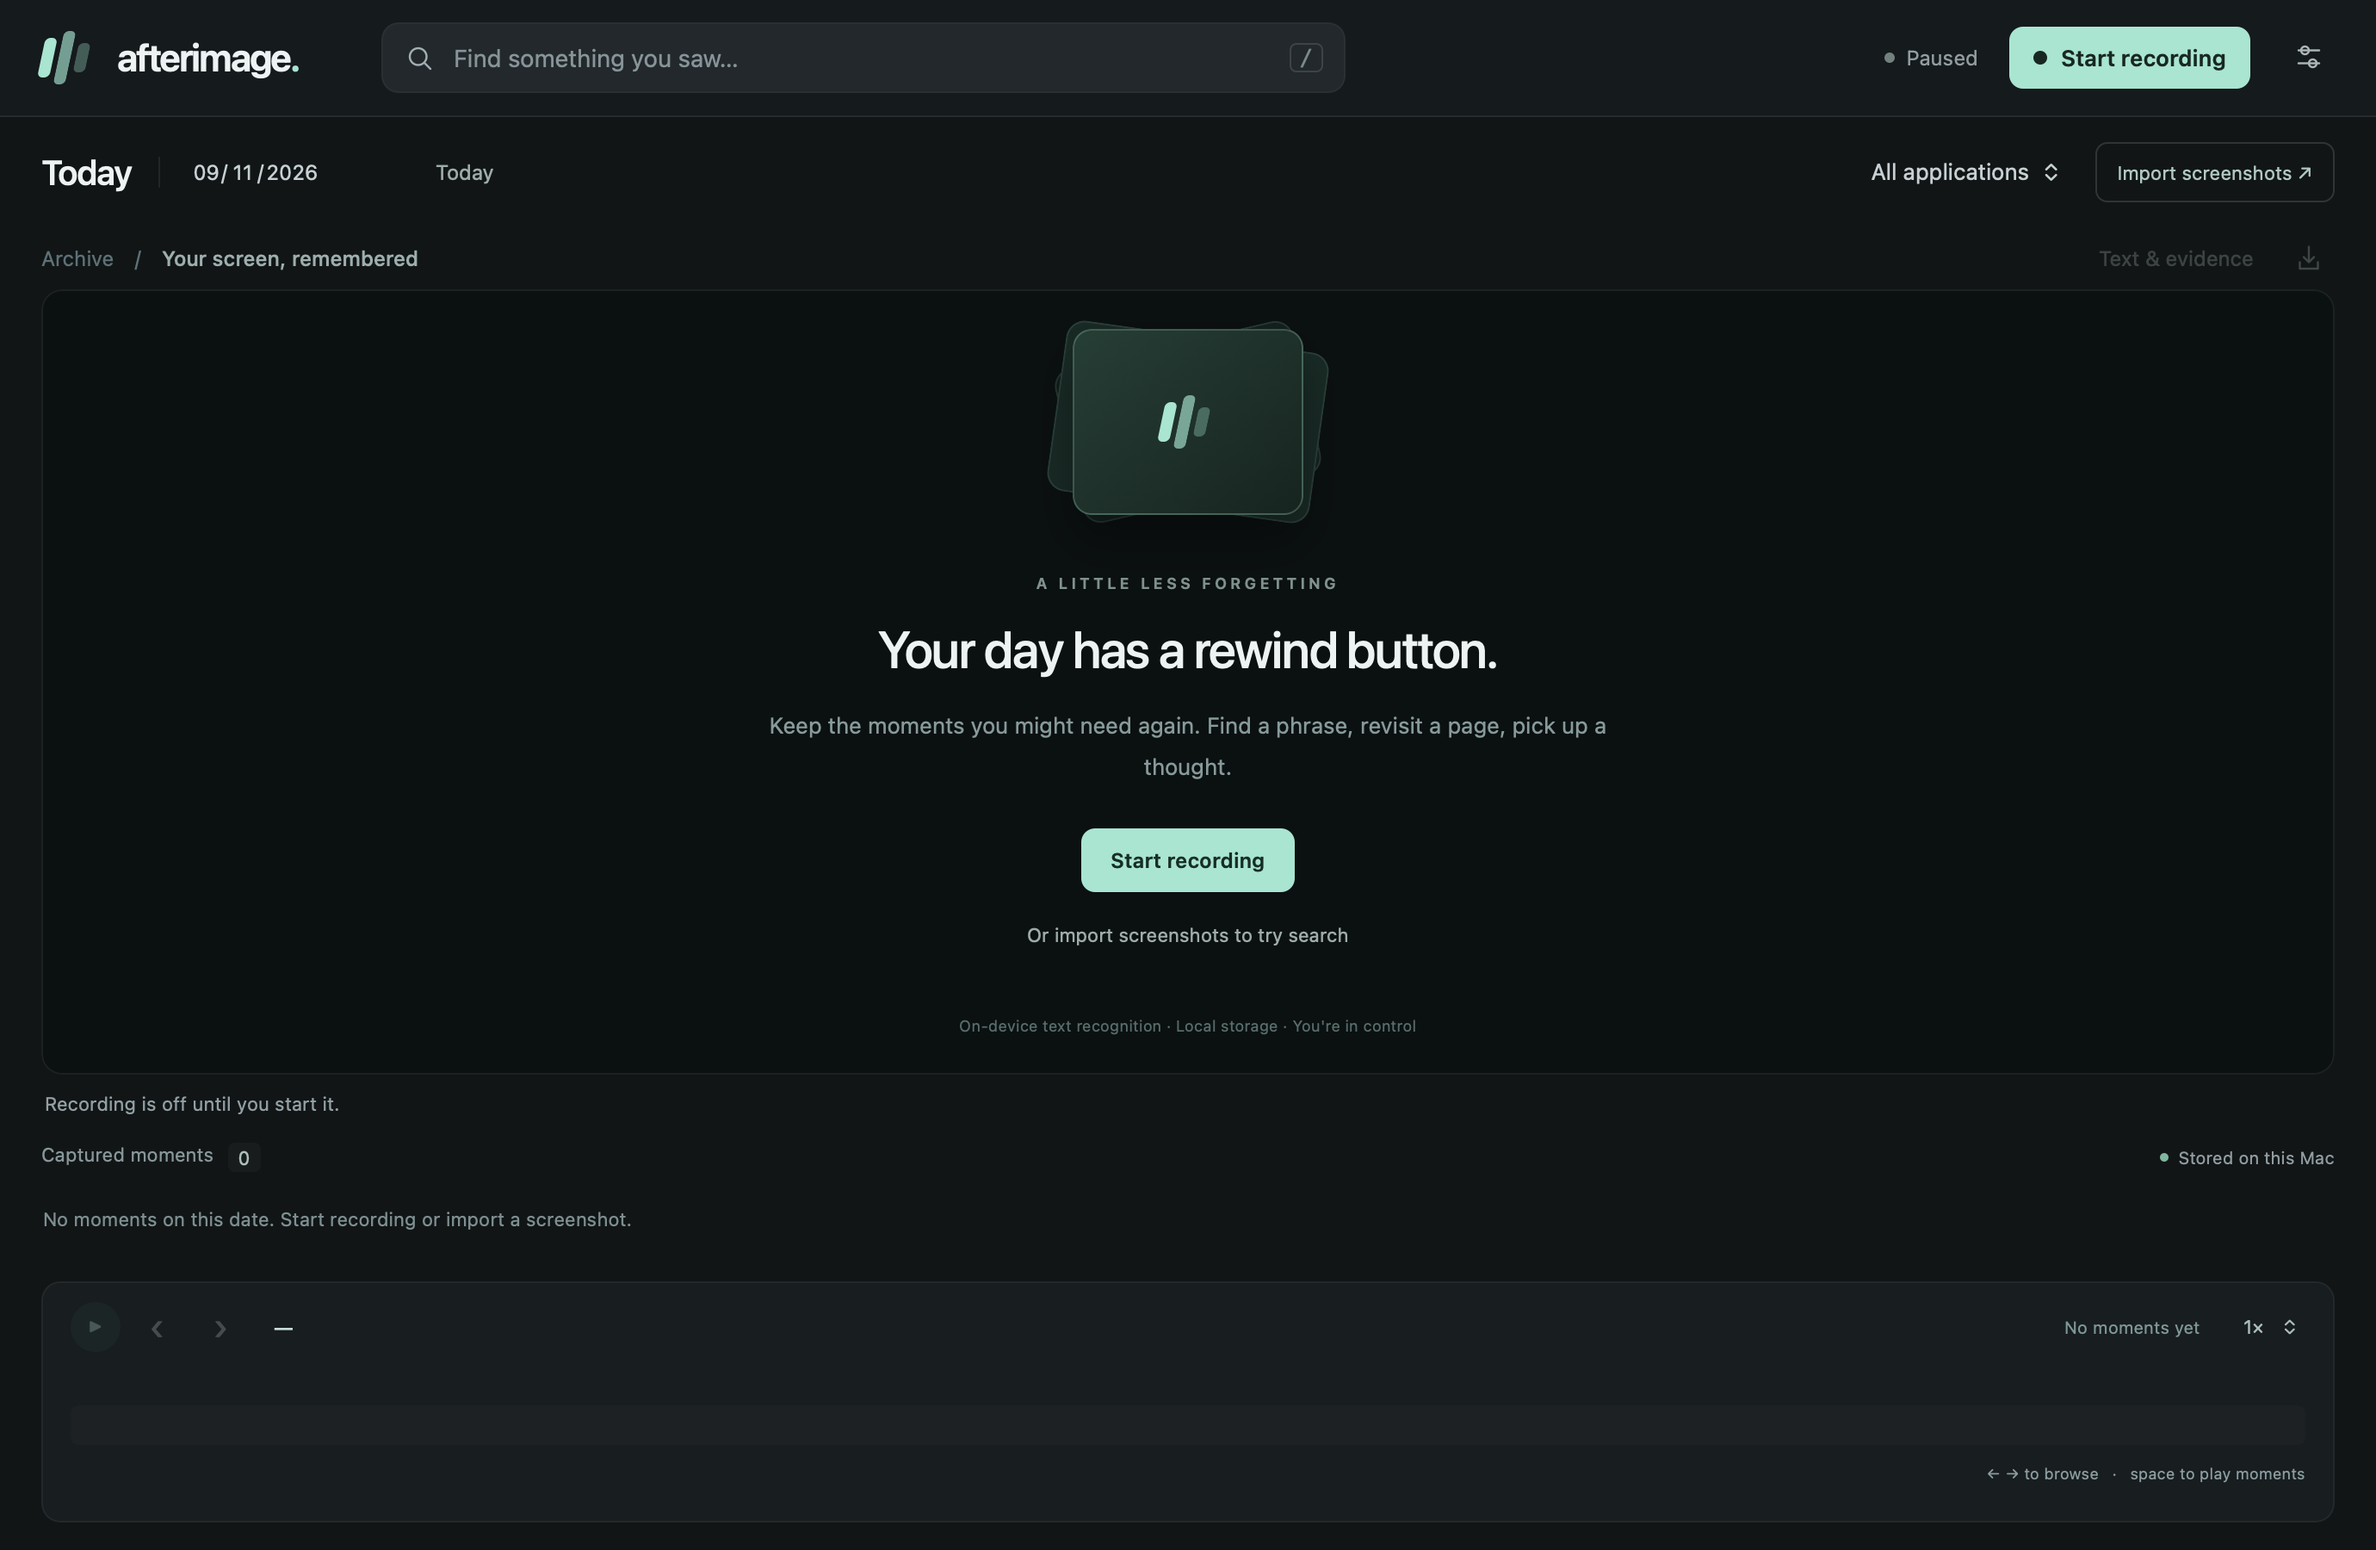
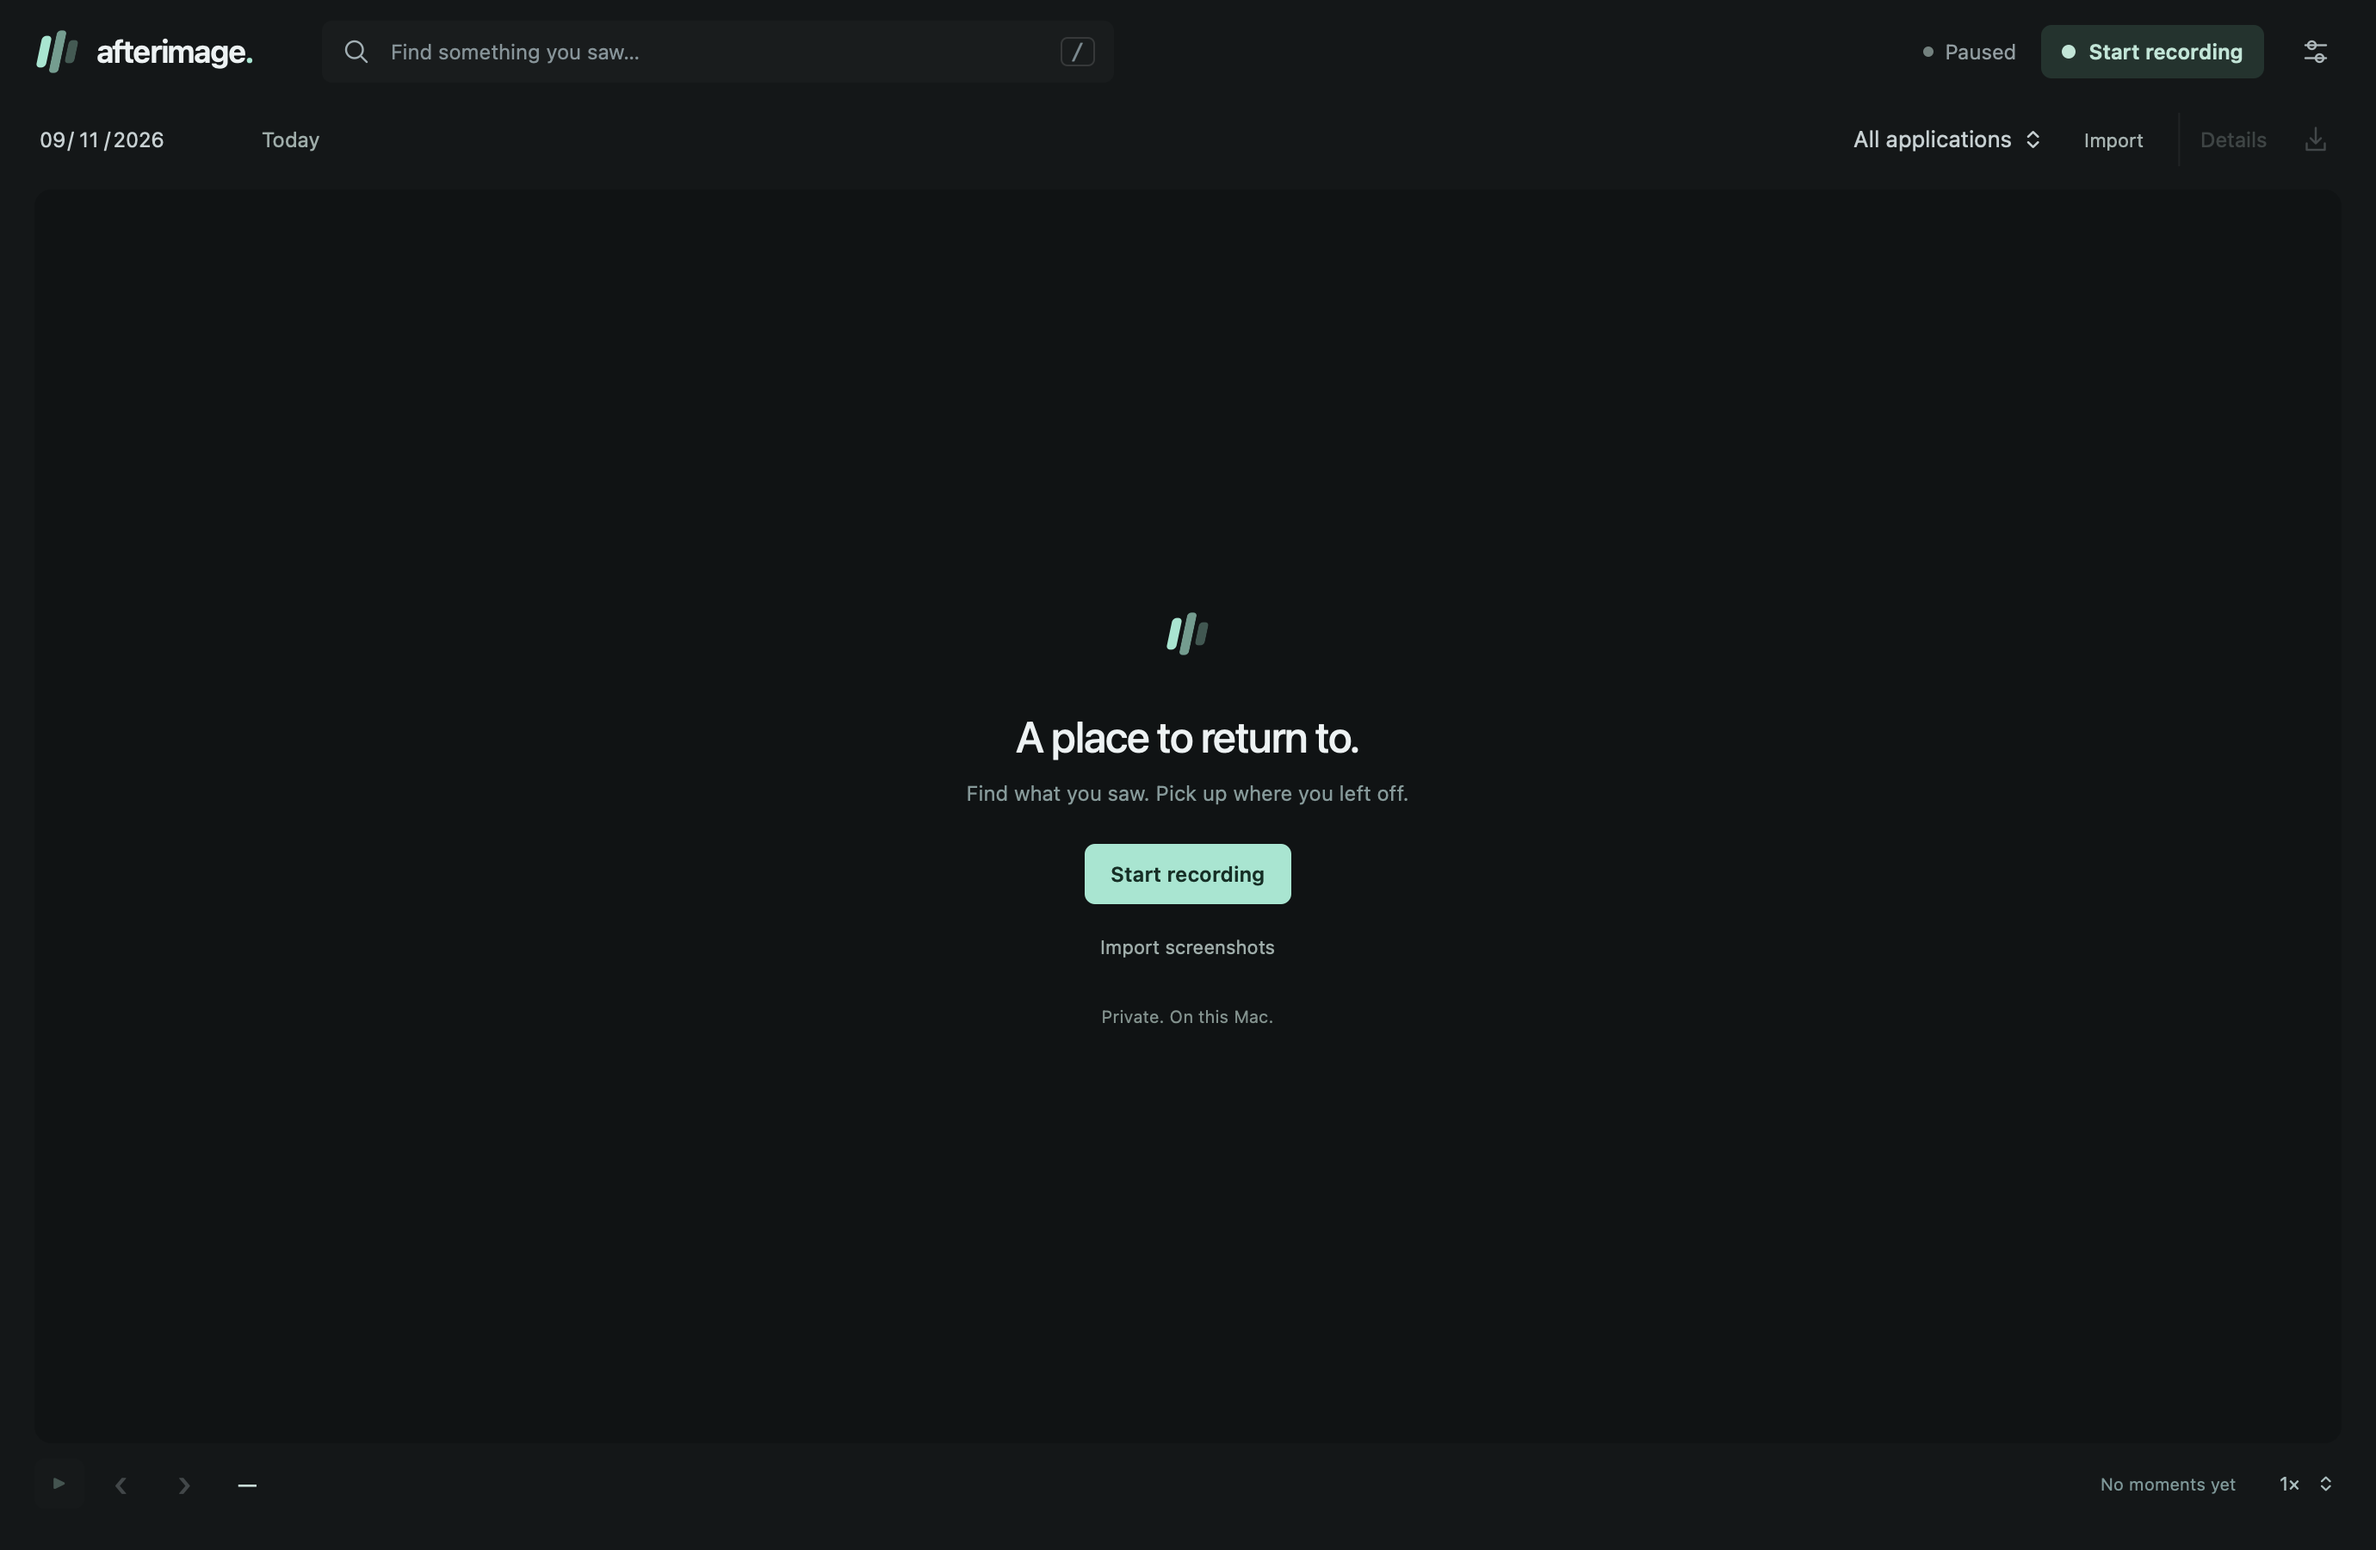
Refine Litt chrome, spacing and typography

diff --git a/web/style.css b/web/style.css
@@ -1342,3 +1342,255 @@ input:focus-visible {
     line-height: 1.5;
   }
 }
+
+/* Quiet chrome: 6px controls, 10px canvas, 12px floating surfaces. */
+:root {
+  --bg: #141718;
+  --panel: #1b1f20;
+  --line: #ffffff0d;
+}
+.topbar {
+  height: 60px;
+  border: 0;
+  background: var(--bg);
+  padding: 0 20px;
+  gap: 24px;
+}
+.brand {
+  font-size: 18px;
+  gap: 9px;
+  letter-spacing: -0.6px;
+}
+.brand-mark {
+  transform: skew(-12deg) scale(0.8);
+  width: 27px;
+}
+.search-wrap {
+  padding: 8px 10px;
+  border: 1px solid transparent;
+  border-radius: 6px;
+  background: #ffffff05;
+  max-width: 460px;
+}
+.search-wrap input {
+  font-size: 12px;
+}
+.record {
+  border-radius: 6px;
+  padding: 8px 12px;
+  font-size: 12px;
+  background: #24332e;
+  color: #c2e5d7;
+}
+.header-actions {
+  gap: 14px;
+}
+.workspace {
+  height: calc(100vh - 60px);
+}
+main {
+  padding: 0 20px 12px;
+}
+.archive-toolbar {
+  min-height: 42px;
+  margin-bottom: 8px;
+}
+.date-control input {
+  width: 120px;
+}
+.day-heading {
+  gap: 12px;
+}
+.archive-filters {
+  gap: 14px;
+}
+.archive-filters .secondary {
+  border: 0;
+  padding: 6px;
+  color: #a7b3b1;
+}
+.viewer-actions {
+  gap: 12px;
+  padding-left: 12px;
+  border-left: 1px solid var(--line);
+}
+.stage {
+  border-radius: 10px;
+  border: 0;
+  background: #101314;
+}
+.frame-caption {
+  padding: 9px 0;
+  font-size: 10px;
+}
+.frame-badge {
+  border: 0;
+  border-radius: 6px;
+  padding: 7px 9px;
+  top: 12px;
+  left: 12px;
+}
+.empty-art {
+  width: 32px;
+  height: 36px;
+  margin-bottom: 16px;
+}
+.empty-art > div {
+  display: none;
+}
+.empty-art > div:last-child {
+  display: flex;
+  position: static;
+  border: 0;
+  border-radius: 0;
+  background: none;
+  box-shadow: none;
+}
+.empty h2 {
+  font-size: 25px;
+  letter-spacing: -0.7px;
+  margin: 8px 0;
+}
+.empty p {
+  font-size: 12px;
+  line-height: 1.6;
+  margin-bottom: 20px;
+}
+.primary {
+  border-radius: 6px;
+  padding: 10px 15px;
+}
+.empty-note {
+  margin-top: 22px;
+  font-size: 10px;
+  color: #83928e;
+}
+.moments-panel {
+  margin-bottom: 4px;
+}
+.moments-heading {
+  height: 24px;
+}
+.local-label {
+  display: none;
+}
+.results {
+  gap: 6px;
+  padding: 3px 1px 6px;
+}
+.moment {
+  position: relative;
+  display: block;
+  flex: 0 0 112px;
+  width: 112px;
+  padding: 3px;
+  border-radius: 6px;
+  background: transparent;
+}
+.moment img {
+  width: 104px;
+  height: 58px;
+  border: 0;
+  border-radius: 3px;
+}
+.moment.selected {
+  background: transparent;
+  border-color: #a9e5d18c;
+}
+.moment-main {
+  margin-top: 5px;
+}
+.moment-top {
+  display: flex;
+  justify-content: space-between;
+  flex-wrap: nowrap;
+  gap: 4px;
+}
+.moment-top i {
+  display: none;
+}
+.moment-top span {
+  max-width: 58px;
+  font-size: 9px;
+  color: #96a39f;
+}
+.moment-top time {
+  margin: 0;
+  width: auto;
+  font-size: 9px;
+}
+.moment-title {
+  display: none;
+}
+#resultCount {
+  background: none;
+  padding: 0;
+  color: #82908b;
+}
+.timeline-panel {
+  background: transparent;
+  border: 0;
+  border-radius: 0;
+  height: 111px;
+  padding: 8px 0 0;
+}
+.timeline {
+  height: 49px;
+  margin-top: 8px;
+}
+.bands,
+.band {
+  height: 16px;
+  border-radius: 4px;
+}
+.band {
+  border: 0;
+  font-size: 9px;
+}
+.playhead {
+  height: 29px;
+  box-shadow: none;
+}
+.timeline-footer {
+  font-size: 9px;
+}
+.timeline-footer > span {
+  display: none;
+}
+.play-button {
+  border-radius: 6px;
+  background: #ffffff08;
+}
+.evidence {
+  top: 48px;
+  right: 20px;
+  bottom: 12px;
+  border-radius: 12px;
+}
+body:not(.has-moments) .moments-panel,
+body:not(.has-moments) .frame-caption {
+  display: none;
+}
+body:not(.has-moments) .timeline-panel {
+  height: 50px;
+}
+body:not(.has-moments) .timeline,
+body:not(.has-moments) .timeline-footer {
+  display: none;
+}
+@media (max-width: 1000px) {
+  .topbar {
+    gap: 16px;
+  }
+  .archive-filters {
+    gap: 8px;
+  }
+}
+@media (max-height: 730px) {
+  .timeline-panel {
+    height: 100px;
+  }
+  .empty-art {
+    display: none;
+  }
+}

diff --git a/web/index.html b/web/index.html
@@ -56,10 +56,11 @@
     <div id="notice" class="notice hidden" role="status"></div>
     <div class="workspace">
       <main>
+        <span id="currentApp" class="hidden"></span>
         <div class="archive-toolbar">
           <div class="day-heading">
-            <h1 id="dayTitle">Today</h1>
-            <span class="toolbar-divider"></span>
+            <h1 id="dayTitle" class="hidden">Today</h1>
+
             <label class="date-control"
               ><input id="date" type="date" aria-label="Recording date"
             /></label>
@@ -70,54 +71,38 @@
               <option value="">All applications</option>
             </select>
             <button id="import" class="secondary" title="Import screenshots">
-              Import screenshots ↗
+              Import
             </button>
-          </div>
-        </div>
-        <div class="viewer-heading">
-          <div class="breadcrumb">
-            <span>Archive</span><span>/</span
-            ><strong id="currentApp">Your screen, remembered</strong>
-          </div>
-          <div class="viewer-actions">
-            <button id="textButton" class="subtle" disabled>
-              Text & evidence</button
-            ><button
-              id="exportButton"
-              class="icon-button"
-              disabled
-              aria-label="Export screenshot"
-              title="Export screenshot"
-            >
-              <svg viewBox="0 0 24 24">
-                <path d="M12 3v12m-4-4 4 4 4-4M5 15v5h14v-5" />
-              </svg>
-            </button>
+            <div class="viewer-actions">
+              <button id="textButton" class="subtle" disabled>Details</button
+              ><button
+                id="exportButton"
+                class="icon-button"
+                disabled
+                aria-label="Export screenshot"
+                title="Export screenshot"
+              >
+                <svg viewBox="0 0 24 24">
+                  <path d="M12 3v12m-4-4 4 4 4-4M5 15v5h14v-5" />
+                </svg>
+              </button>
+            </div>
           </div>
         </div>
         <section id="stage" class="stage" aria-label="Screenshot viewer">
           <div id="empty" class="empty">
-            <div class="empty-art">
+            <div class="empty-art" aria-hidden="true">
               <div></div>
               <div></div>
               <div>
                 <span class="brand-mark"><i></i><i></i><i></i></span>
               </div>
             </div>
-            <span class="eyebrow">A LITTLE LESS FORGETTING</span>
-            <h2>Your day has a rewind button.</h2>
-            <p>
-              Keep the moments you might need again.<br />Find a phrase, revisit
-              a page, pick up a thought.
-            </p>
-            <button id="emptyRecord" class="primary">
-              Start recording <span>↗</span></button
-            ><button id="emptyImport" class="subtle">
-              Or import screenshots to try search
-            </button>
-            <div class="empty-note">
-              On-device text recognition · Local storage · You're in control
-            </div>
+            <h2>A place to return to.</h2>
+            <p>Find what you saw. Pick up where you left off.</p>
+            <button id="emptyRecord" class="primary">Start recording</button
+            ><button id="emptyImport" class="subtle">Import screenshots</button>
+            <div class="empty-note">Private. On this Mac.</div>
           </div>
           <div id="imageArea" class="image-area hidden">
             <div id="imageCanvas" class="image-canvas">

diff --git a/web/app.js b/web/app.js
@@ -184,6 +184,7 @@ async function load() {
 function renderList() {
   const list = $("results");
   list.replaceChildren();
+  document.body.classList.toggle("has-moments", frames.length > 0);
   if (!frames.length) {
     list.append(
       node(
@@ -199,6 +200,7 @@ function renderList() {
   for (const f of frames.slice().reverse()) {
     const b = node("button", "moment");
     b.dataset.id = f.id;
+    b.title = `${f.app} · ${clock(f.time)}\n${f.title}`;
     b.setAttribute("aria-label", `${f.app}, ${clock(f.time)}, ${f.title}`);
     const img = node("img");
     img.src = `litt://frame/${f.id}`;
@@ -296,12 +298,10 @@ function showEmpty() {
   $("screenshot").removeAttribute("src");
   const title = $("empty").querySelector("h2"),
     p = $("empty").querySelector("p");
-  title.textContent = query
-    ? "Nothing matches just yet."
-    : "Your day has a rewind button.";
+  title.textContent = query ? "No matching moments." : "A place to return to.";
   p.textContent = query
     ? "Try fewer words, another date, or a different application."
-    : "Keep the moments you might need again. Find a phrase, revisit a page, pick up a thought.";
+    : "Find what you saw. Pick up where you left off.";
 }
 function fit() {
   if (!current) return;
@@ -494,6 +494,7 @@ async function settings() {
     const available = new Set(state.runningApps.map((a) => a.bundle));
     const list = $("excludedApps");
     list.replaceChildren();
+    document.body.classList.toggle("has-moments", frames.length > 0);
     for (const a of state.runningApps) {
       const label = node("label"),
         input = node("input");

diff --git a/docs/VALIDATION.md b/docs/VALIDATION.md
@@ -14,7 +14,7 @@ Tested on this Mac: Apple Silicon, macOS 26.6, Apple Clang 17, CMake 4.4.3, syst
 - JavaScript syntax and shell-script syntax checks.
 - Local ad-hoc code signing.
 
-The automated release test suites completed in 0.54 seconds on the latest verification run. This is test runtime, **not a capture/search performance benchmark**. A separate one-image experiment using a user-supplied screenshot produced 122 OCR boxes and retrieved the image for the term `Clang`; that screenshot is not bundled in the repository.
+The automated release test suites completed in 0.58 seconds on the latest verification run. This is test runtime, **not a capture/search performance benchmark**. A separate one-image experiment using a user-supplied screenshot produced 122 OCR boxes and retrieved the image for the term `Clang`; that screenshot is not bundled in the repository.
 
 Native UI results: [populated](ui-populated-check.json), [empty](ui-empty-check.json). The saved [first-launch view](first-launch.png) and [search/evidence view](search-evidence.png) are screenshots of the actual native app. The latter uses the clearly labeled test fixture, not invented recorded activity.
 
@@ -34,3 +34,5 @@ To finish the live check:
 8. Run a longer capture to measure CPU, memory, archive growth and processing latency before making performance claims.
 
 No hosted CI run, notarization, external distribution, or push to GitHub was performed.
+
+UI refinement: reduced border and corner treatments, combined utilities into one toolbar, shortened empty-state copy, removed decorative stacked cards, and flattened the timeline. Native empty/populated checks passed at both window sizes.
